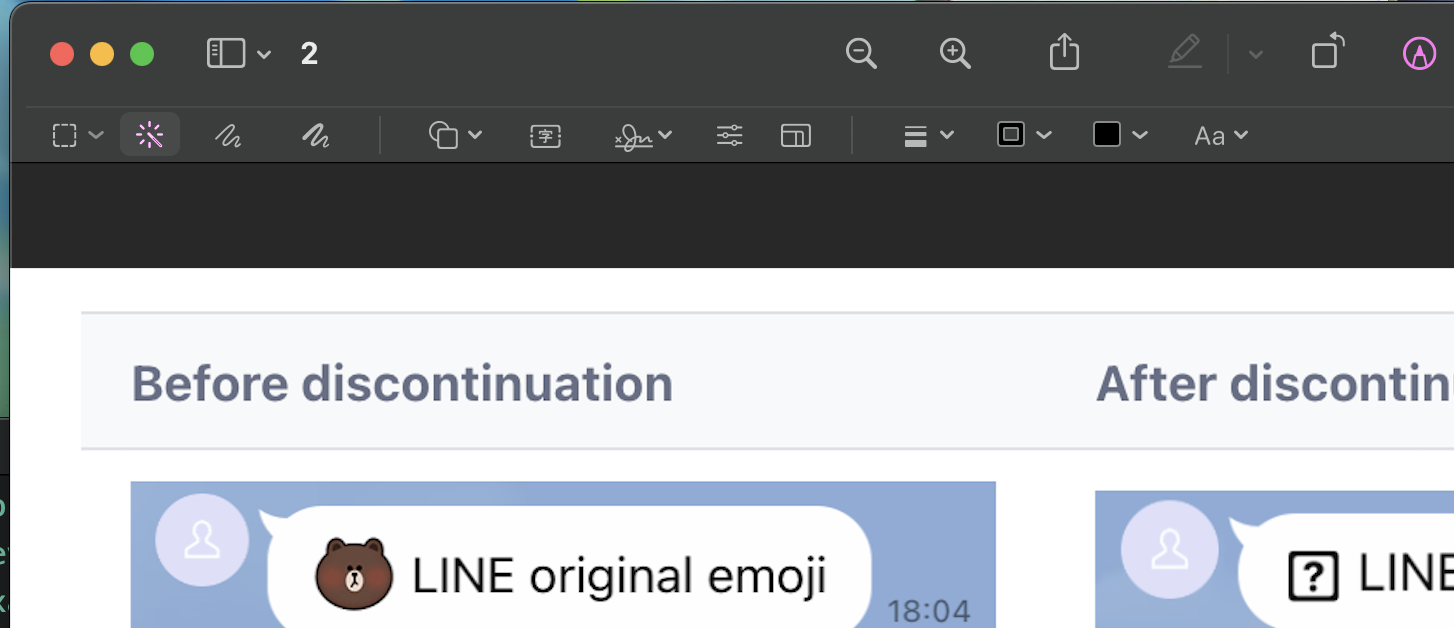
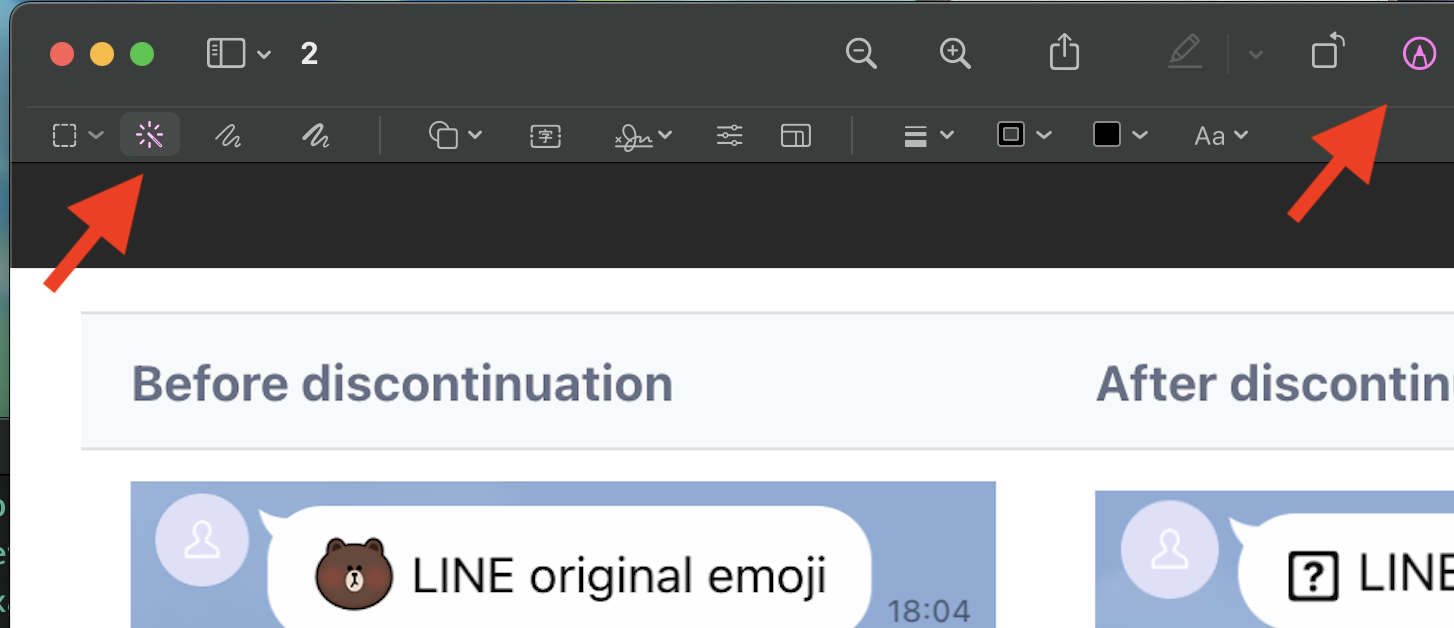
deploy blog resource

Changed region(s): [[0.8666, 0.1513, 0.9594, 0.3631], [0.0309, 0.2723, 0.1238, 0.4538]]

diff --git a/source/_posts/clear-image-background-mac.md b/source/_posts/clear-image-background-mac.md
@@ -1,0 +1,63 @@
+---
+title: 【MAC】透過內建的預覽程式來去背吧！
+tags:
+  - 去背
+  - 預覽程式
+  - Mac
+categories: 學習紀錄
+date: 2021-12-08 18:57:20
+---
+
+
+# TL;DR
+
+- 在黑底簡報放上截圖
+- 別把內容中白色的地方都去掉
+- 只想要去內容之外的白色的區域
+
+<!-- more -->
+
+# 起源
+
+過去在做一些簡報時，習慣透過 PowerPoint 的方式來幫忙去背，使用的地方如下圖
+
+![](https://nijialin.com/images/2021/clear-bg/7.png)
+
+但去背完後會發現連框框內的白色內容都一起消失了 💦，這樣貼上黑底的簡報就什麼都看不到了...
+
+![](https://nijialin.com/images/2021/clear-bg/8.png)
+
+# 使用 Mac 內建的「預覽程式」來協助去背
+
+以下這是張範例截圖(想試玩也可以下載)
+![](https://nijialin.com/images/2021/clear-bg/1.png)
+
+抓下來後把他點看，先點選右上角的<mark>編輯</mark>後，接著點選左邊**紅色箭頭**的工具，點選想去背的地方並滑動來框區域
+![](https://nijialin.com/images/2021/clear-bg/2.png)
+
+滑動時候的狀態會如下圖這樣，預覽程式會告知你現在有哪些地方被**去背**，藉此看一下是否有些空間不小心被切掉了(像是灰色的底)
+![](https://nijialin.com/images/2021/clear-bg/4.png)
+
+當各位框好範圍之後，點選編輯中的<mark>將選取範圍反向</mark>
+![](https://nijialin.com/images/2021/clear-bg/3.png)
+
+按下之後會看到下圖箭頭的地方有個**裁剪**的圖示，給他全力的 「**按。下。去**」
+![](https://nijialin.com/images/2021/clear-bg/5.png)
+
+結果就如下啦(根本看不出來)，大家可以把它下載後貼到黑色背景的地方就會發現差異嚕！
+![](https://nijialin.com/images/2021/clear-bg/6.png)
+
+# 結論
+
+以前在 Windows 主機上操作很習慣的使用 PowerPoint 之類的工具來快速幫我去背，個人也不太會用 Adobe 相關的軟體來協助處理(或許未來可試試)，在工作之後長期使用 Mac 卻不知道有這麼方便的預覽系統可以幫忙去背，在這次學到了這個功能之後就可以把一些底圖弄的更有專業度啦！
+
+
+<style>
+  section.compact {
+    font-size: 150%  
+  }
+  img[alt~="center"] {
+    display: block;
+    margin: 0 auto;
+  }
+</style>
